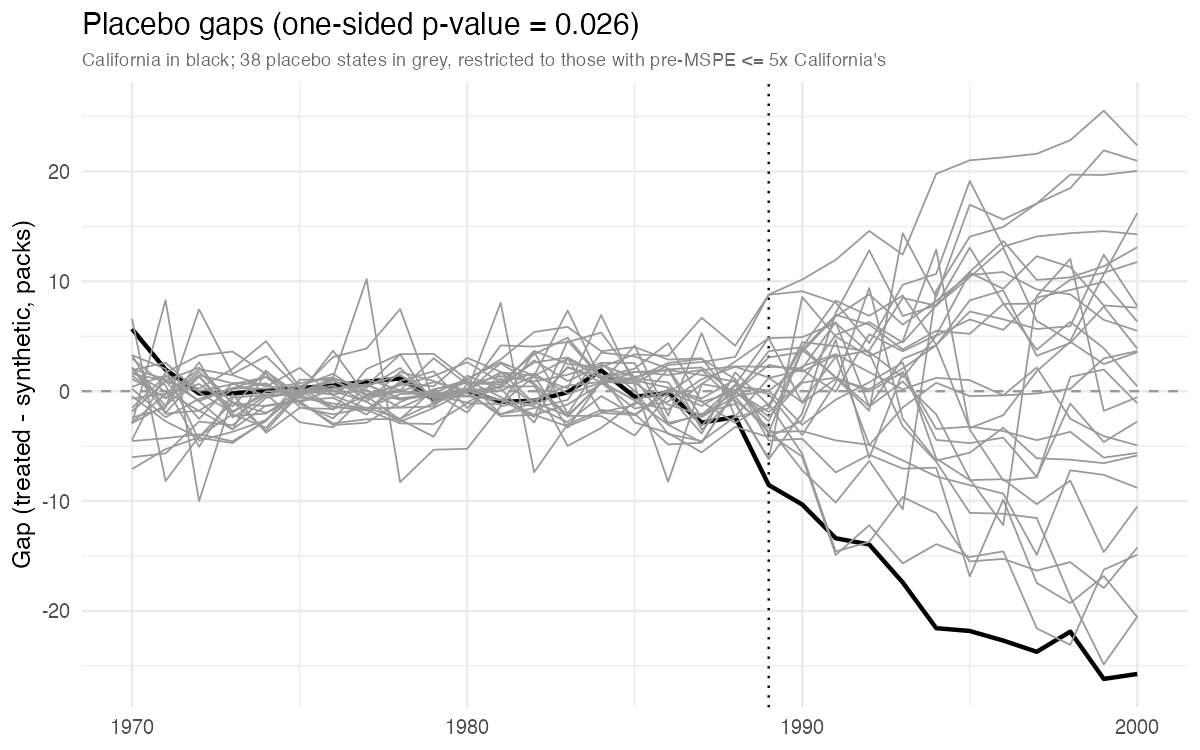
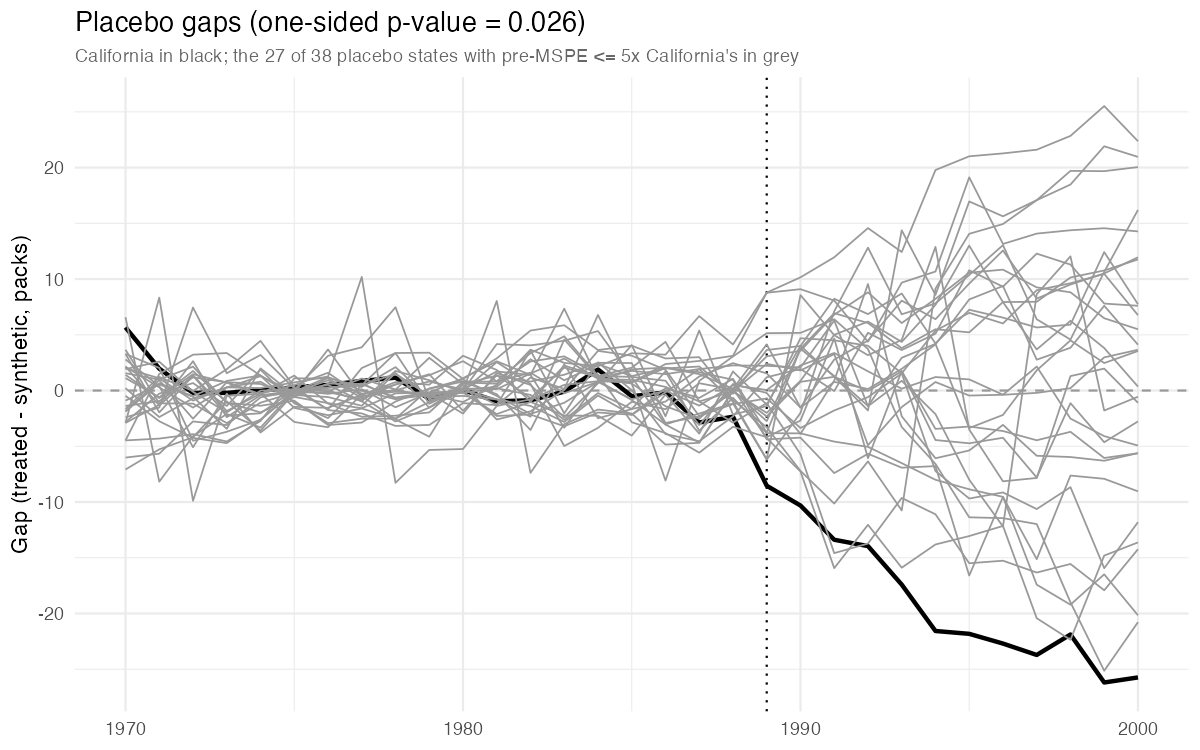
Synth pages: regenerate the placebo figure; fix dead citation links
- assets/img/synth_placebos_california.png: regenerated from Synth main
  with the same call as the page. The subtitle said "38 placebo states";
  the plot shows the 27 of 38 under the pre-MSPE threshold, and the
  subtitle now says so. The plotted data are unchanged.
- Explainer: the {% cite %} tags linked to anchors the page does not
  have (it prints no bibliography). They now name the papers and link
  to the page's own References section.

diff --git a/_projects/37_project_synth_explainer.md b/_projects/37_project_synth_explainer.md
@@ -11,8 +11,9 @@ category: methods
 This is a self-contained tutorial on the synthetic control method
 (SCM) for users coming from either R or Stata. The R commands use the
 `Synth` package; the Stata commands use the `synth` command. Both
-implement the same algorithm from Abadie and Gardeazabal (2003),
-{% cite abadie2010synthetic %}, and {% cite abadie2011synth %}.
+implement the same algorithm from Abadie and Gardeazabal (2003) and
+Abadie, Diamond, and Hainmueller (2010, 2011); see the
+[references](#references) below.
 
 ← **[Back to the Synthetic Control Methods project page](/projects/2_project_scm/)** for the package landing pages and the most recent release notes.
 **Source:** [j-hai/Synth](https://github.com/j-hai/Synth) (R) · [j-hai/synth-stata](https://github.com/j-hai/synth-stata) (Stata).
@@ -90,7 +91,8 @@ $$\hat\tau_t = Y_{1t} - \hat Y_{1t}^{\,\text{synth}}$$.
 ## Worked example: California's Proposition 99
 
 In 1988 California raised cigarette taxes via Proposition 99. The
-canonical SCM application from {% cite abadie2010synthetic %} asks:
+canonical SCM application from Abadie, Diamond, and Hainmueller
+([2010](#references)) asks:
 **how would per-capita cigarette consumption have evolved without
 the tax?** The donor pool is the 38 other US states.
 
